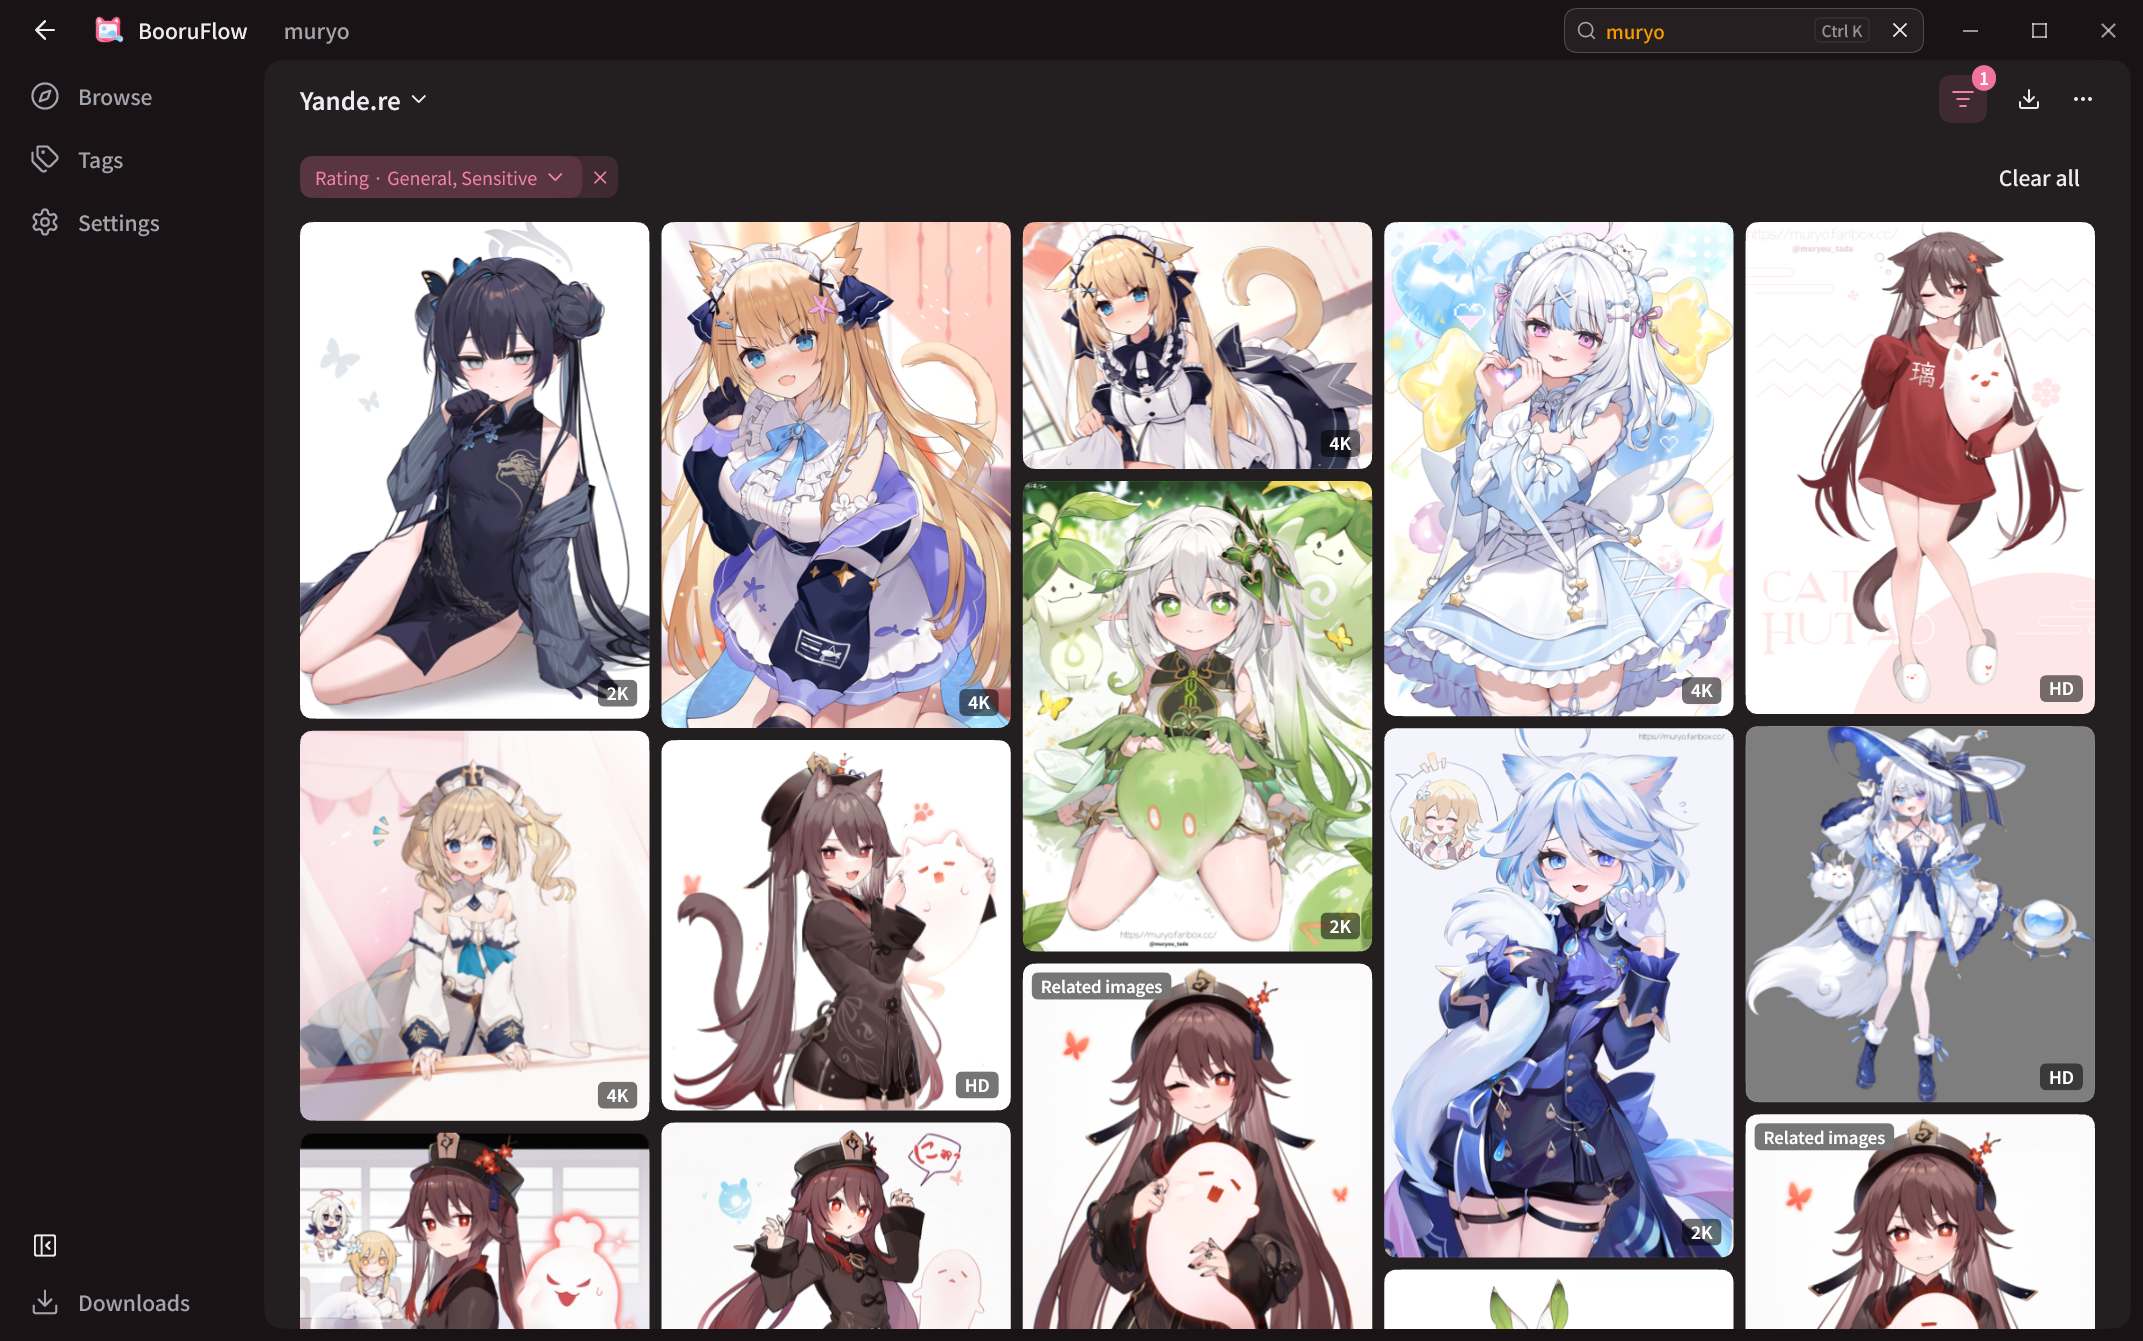
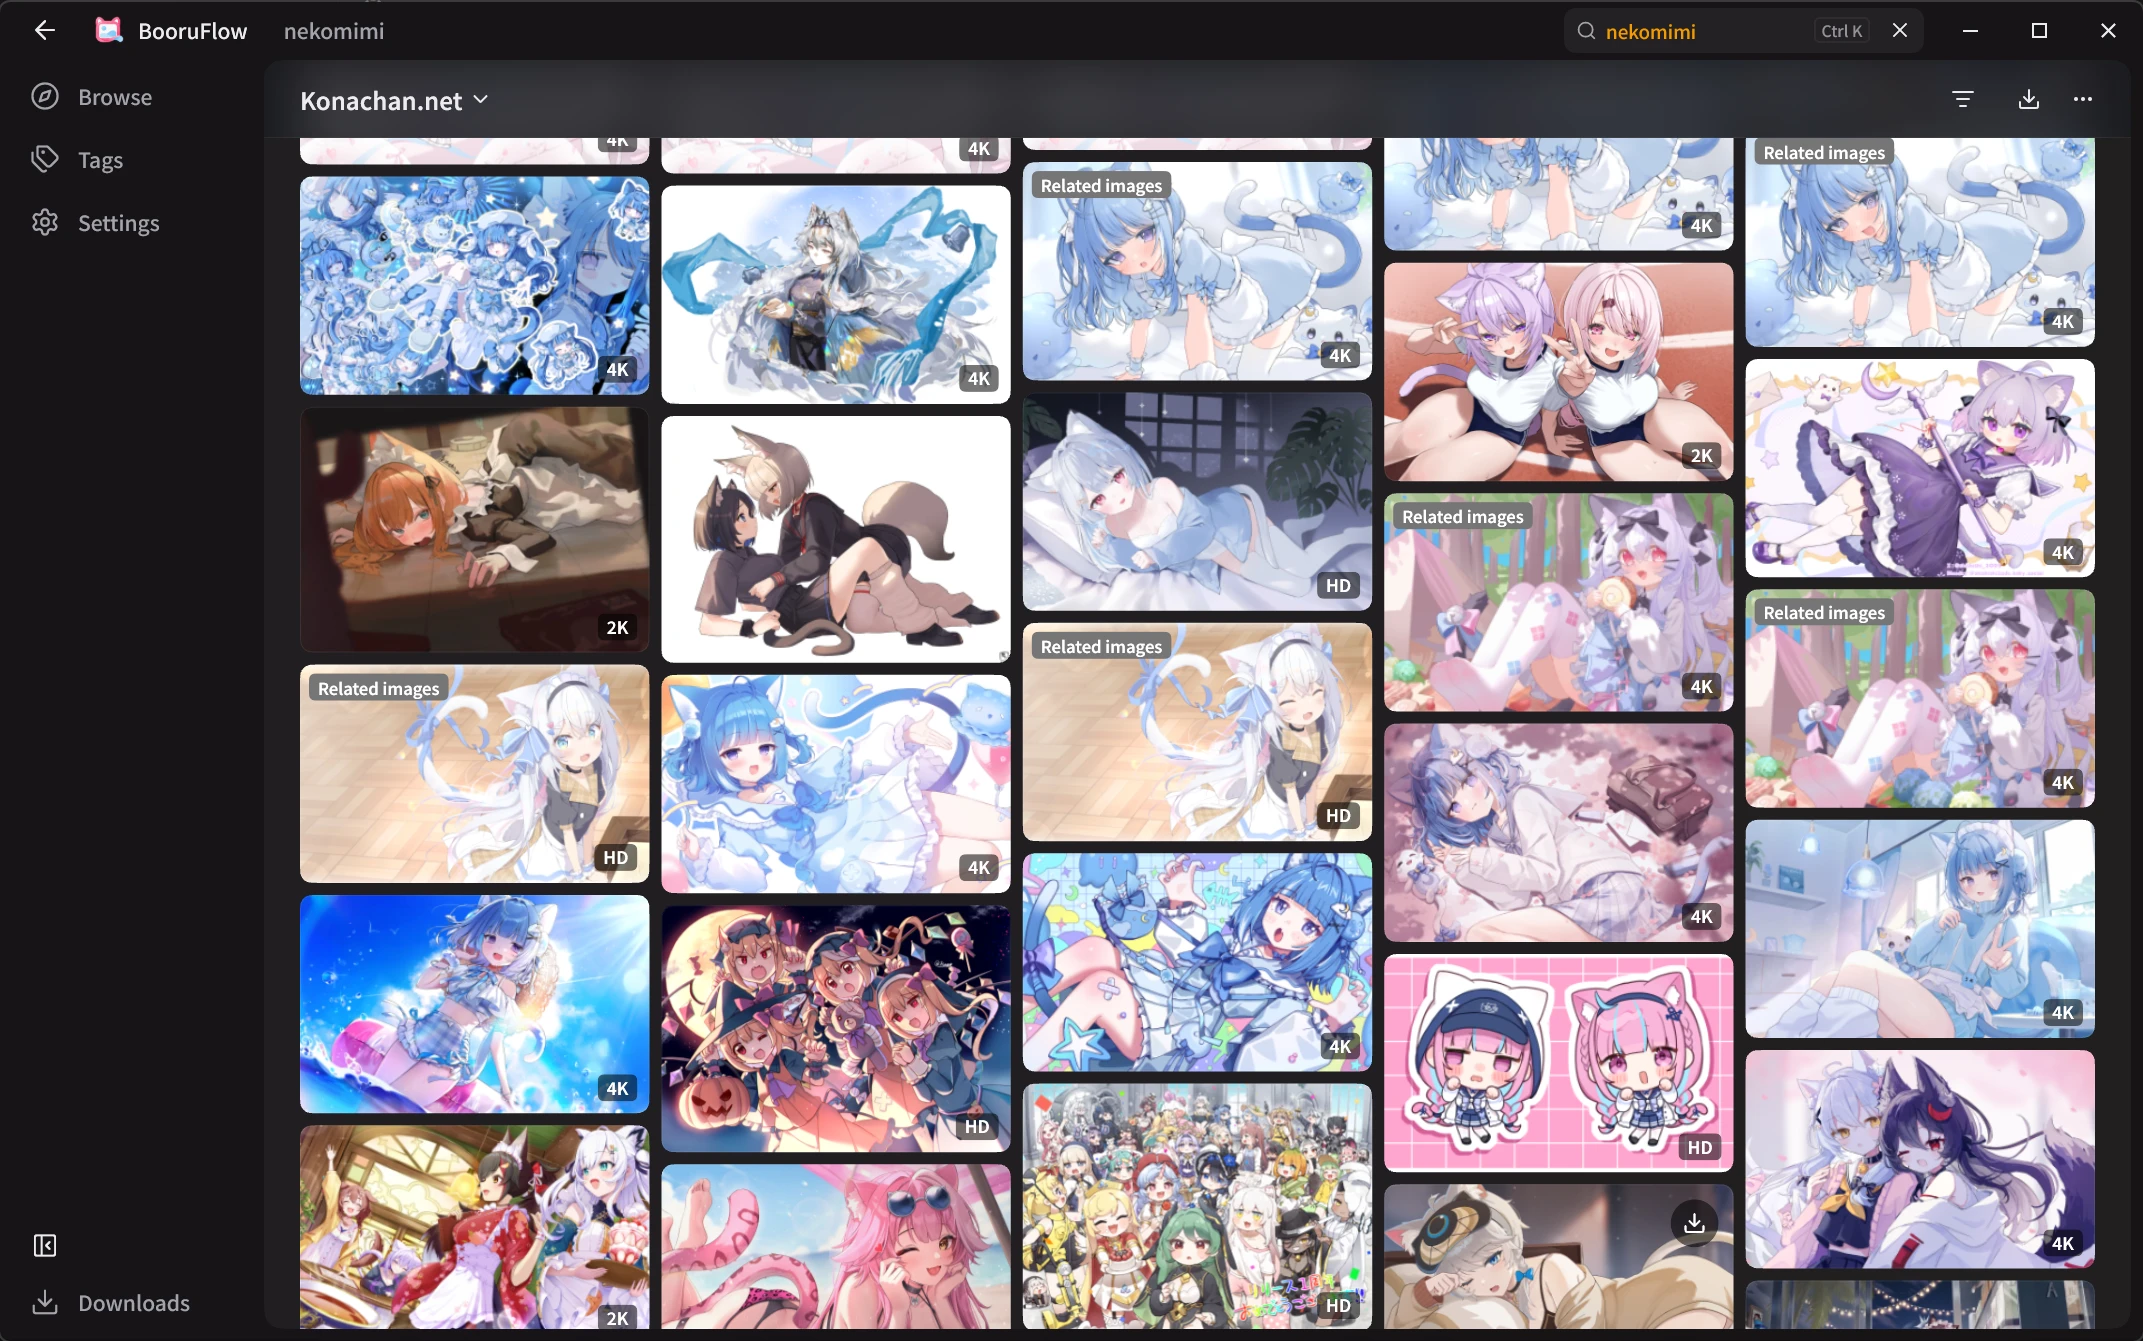
docs: retake the desktop readme screenshots

diff --git a/README.md b/README.md
@@ -8,7 +8,7 @@ Search, browse, and download artwork from Danbooru, Gelbooru, Yande.re, and othe
 
 [Download](https://github.com/normalllll/BooruFlow/releases/latest) | [Features](#features) | [Screenshots](#screenshots)
 
-![Desktop — Yande.re search results for muryo](screenshots/0.webp)
+![Desktop — Konachan.net search results for nekomimi](screenshots/0.webp)
 
 ## Features
 
@@ -54,7 +54,7 @@ Report bugs or suggest features in [Issues](https://github.com/normalllll/BooruF
 
 ### Desktop
 
-| ![Details of Yande.re post 1244387](screenshots/desktop/img0.webp) | ![Download tasks](screenshots/desktop/img1.webp) |
+| ![Details of Anime-Pictures post 934973](screenshots/desktop/img0.webp) | ![Download tasks](screenshots/desktop/img1.webp) |
 |--------------------------------------------------------|--------------------------------------------------------|
 
 ### Mobile
